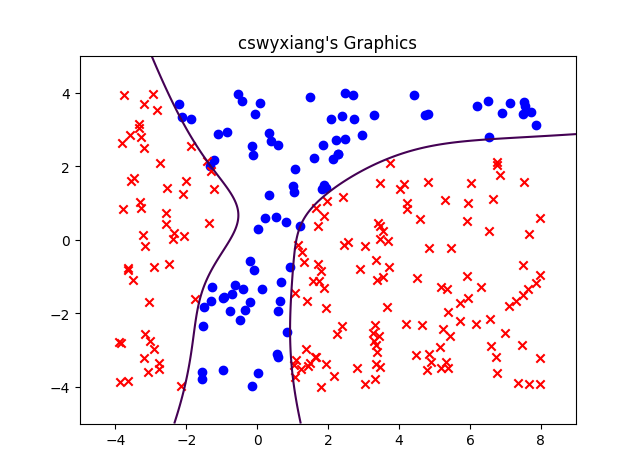
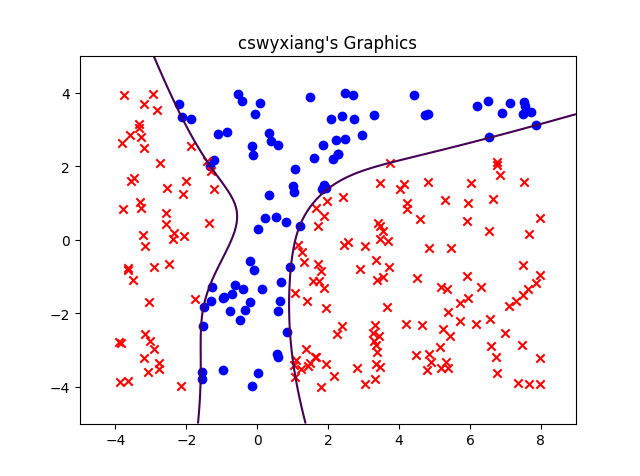
修改后的Task3

diff --git a/Task3/cswyxiang.py b/Task3/cswyxiang.py
@@ -10,58 +10,42 @@ dataY = file2.readlines()
 file1.close()
 file2.close()
 
-X1 = []
-X2 = []
+X = []
 Y = []
 
 for eachline in dataX:
-	X1.append(float(eachline.split()[0]))
-	X2.append(float(eachline.split()[1]))
+	X1 = float(eachline.split()[0])
+	X2 = float(eachline.split()[1])
+	X.append((1,X1,X2,X1*X2,X1**2,X2**2,X1*X2**2,X2*X1**2,X1**3,X2**3,X1*X2**3,X2*X1**3,X1**2*X2**2,X1**4,X2**4))
 for eachline in dataY:
 	Y.append(float(eachline))
 
-def h(x1,x2,theta):
-	return theta[0] + theta[1]*x1 + theta[2]*x2 + theta[3]*x1**2 + theta[4]*x2**2 + theta[5]*x1**3 + theta[6]*x2**3 + theta[7]*x1*x2 + theta[8]*x1*x2**2 + theta[9]*x2*x1**2 + theta[10]*x1*x2**3+theta[11]*x2*x1**3 + theta[12]*x2**2*x1**2 +theta[13]*x1**4+ theta[14]*x2**4
+X = mat(X)
+Y = mat(Y).T
 
 theta = [0,0,0,0,0,0,0,0,0,0,0,0,0,0,0]
+theta = mat(theta).T
 m = size(X1)
 alpha = 0.01
-Max_step = 60000
+Max_step = 80000
 
 for i in range(Max_step):
-	sigma = [0,0,0,0,0,0,0,0,0,0,0,0,0,0,0]
-	for j in range(m):
-		sigma[0] = sigma[0] + 1/(1+exp(-h(X1[j],X2[j],theta)))-Y[j] 
-		sigma[1] = sigma[1] + (1/(1+exp(-h(X1[j],X2[j],theta)))-Y[j])*X1[j]
-		sigma[2] = sigma[2] + (1/(1+exp(-h(X1[j],X2[j],theta)))-Y[j])*X2[j]
-		sigma[3] = sigma[3] + (1/(1+exp(-h(X1[j],X2[j],theta)))-Y[j])*X1[j]**2
-		sigma[4] = sigma[4] + (1/(1+exp(-h(X1[j],X2[j],theta)))-Y[j])*X2[j]**2
-		sigma[5] = sigma[5] + (1/(1+exp(-h(X1[j],X2[j],theta)))-Y[j])*X1[j]**3
-		sigma[6] = sigma[6] + (1/(1+exp(-h(X1[j],X2[j],theta)))-Y[j])*X2[j]**3
-		sigma[7] = sigma[7] + (1/(1+exp(-h(X1[j],X2[j],theta)))-Y[j])*X2[j]*X1[j]
-		sigma[8] = sigma[8] + (1/(1+exp(-h(X1[j],X2[j],theta)))-Y[j])*X1[j]*X2[j]**2
-		sigma[9] = sigma[9] + (1/(1+exp(-h(X1[j],X2[j],theta)))-Y[j])*X2[j]*X1[j]**2
-		sigma[10] = sigma[10] + (1/(1+exp(-h(X1[j],X2[j],theta)))-Y[j])*X1[j]*X2[j]**3
-		sigma[11] = sigma[11] + (1/(1+exp(-h(X1[j],X2[j],theta)))-Y[j])*X2[j]*X1[j]**3
-		sigma[12] = sigma[12] + (1/(1+exp(-h(X1[j],X2[j],theta)))-Y[j])*X1[j]**2*X2[j]**2
-		sigma[13] = sigma[13] + (1/(1+exp(-h(X1[j],X2[j],theta)))-Y[j])*X1[j]**4
-		sigma[14] = sigma[14] + (1/(1+exp(-h(X1[j],X2[j],theta)))-Y[j])*X2[j]**4
-	for k in range(15):
-		theta[k] = theta[k] - alpha*(1/m)*sigma[k]
-
+	error = 1/(1 + exp(-X*theta)) - Y
+	theta = theta - alpha * X.T * error
+print(theta)
 x1 = np.arange(-5, 9, .01)
 x2 = np.arange(-5, 5, .01)
 x1,x2 = np.meshgrid(x1,x2)
-y = h(x1,x2,theta)
+f = theta[0,0] + theta[1,0]*x1 + theta[2,0]*x2 + theta[3,0]*x1*x2 + theta[4,0]*x1**2 + theta[5,0]*x2**2 + theta[6,0]*x1*x2**2 + theta[7,0]*x2*x1**2 + theta[8,0]*x1**3 + theta[9,0]*x2**3 + theta[10,0]*x1*x2**3 + theta[11,0]*x2*x1**3 + theta[12,0]*(x1**2)*(x2**2) + theta[13,0]*x1**4 + theta[14,0]*x2**4
 
-plt.contour(x1,x2,y,0)
+plt.contour(x1,x2,f,0)
 
 t = 0;
 for each in Y:	
-	if float(each) > 0:
-		plt.scatter(X1[t],X2[t],color = 'red',marker = "x")
+	if each > 0:
+		plt.scatter(X[t,1],X[t,2],color = 'red',marker = "x")
 	else:
-		plt.scatter(X1[t],X2[t],color = 'blue')
+		plt.scatter(X[t,1],X[t,2],color = 'blue')
 	t = t + 1
 plt.title("cswyxiang's Graphics")
 plt.legend()
